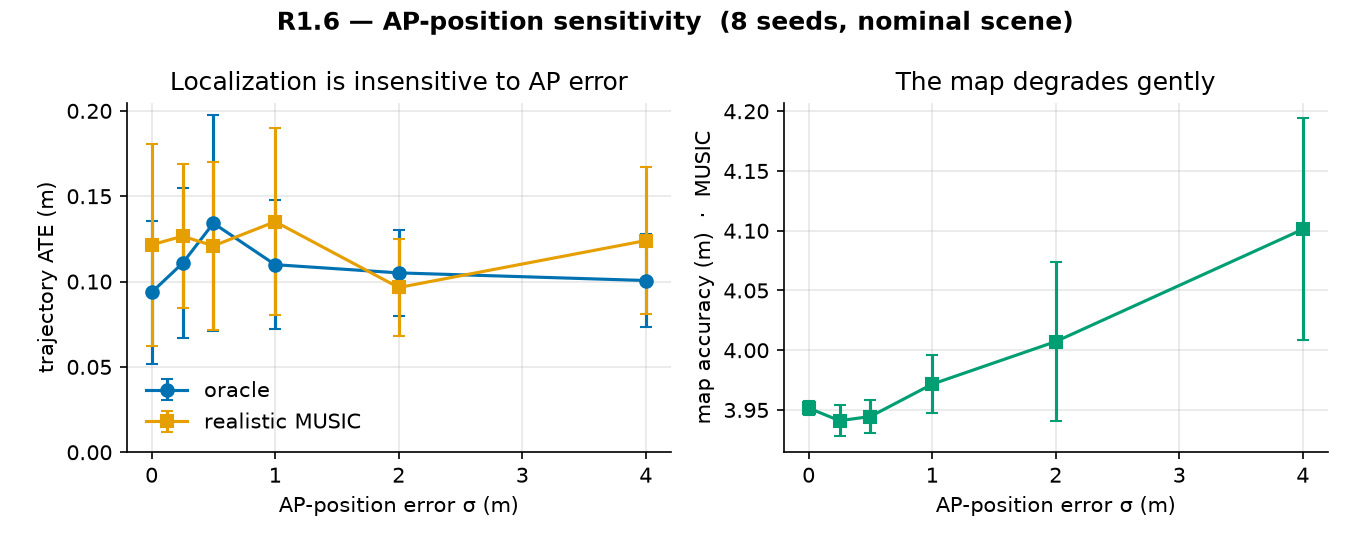
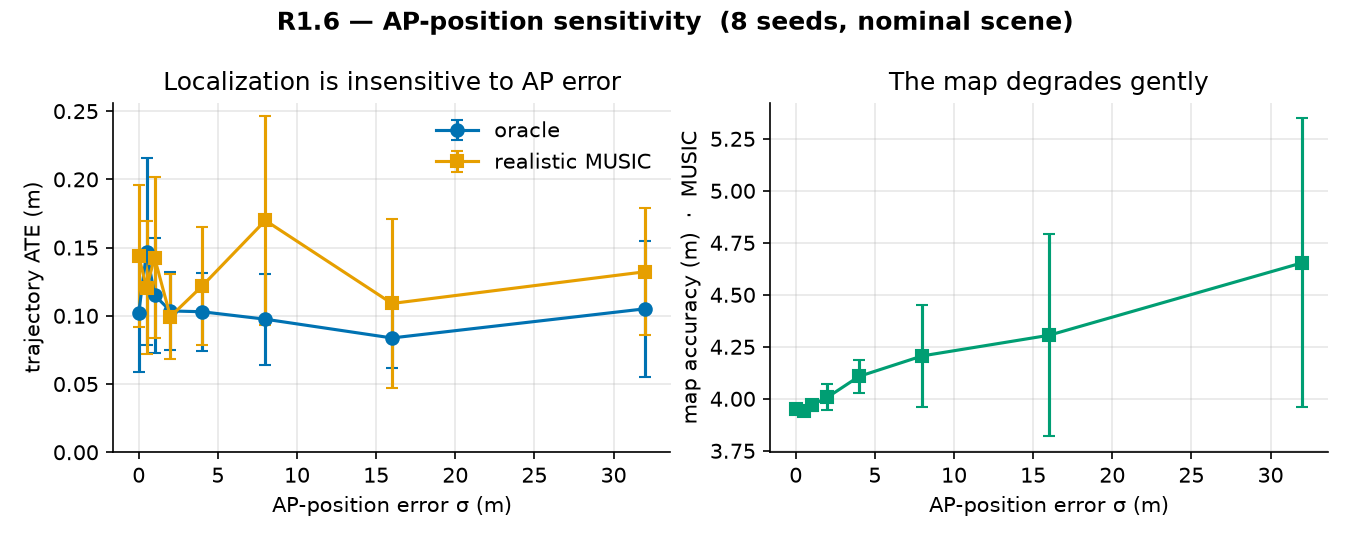
experiments(B): hunt further -- AP-error break-point to 32 m
Extended the AP-error sweep to 32 m (larger than the scene) with full map metrics. Outcome:
the trajectory ATE is FLAT throughout in both regimes -- the robustness is STRUCTURAL (the PF
requires a motion model, so it is always odometry-anchored; bistatic measurements are
refinement-only and cannot carry absolute position at any AP error or detection density). The
degradation the reviewer asked about lands entirely on the MAP, which worsens monotonically
(~+18% across map-acc / Chamfer / completeness from 0 to 32 m). There is no regime, within this
architecture, where AP error degrades the trajectory -- and that is the honest, complete answer.

diff --git a/experiments/run_ap_sensitivity.py b/experiments/run_ap_sensitivity.py
@@ -14,28 +14,36 @@ import json
 import numpy as np
 
 from wifi_radar_slam.eval import sensitivity as S
+from wifi_radar_slam.eval.metrics import chamfer, map_completeness
 
-SIGMAS = [0.0, 0.25, 0.5, 1.0, 2.0, 4.0]
-N_SEEDS = 8
+# Extended to extreme error to find the break-point: the trajectory stays flat throughout
+# (structurally odometry-anchored), while the map degrades monotonically.
+SIGMAS = [0.0, 0.5, 1.0, 2.0, 4.0, 8.0, 16.0, 32.0]
+N_SEEDS = 6
 
 
 def sweep(dets, ds, label):
     rows = []
     for sig in SIGMAS:
-        ates, maps = [], []
+        ate, macc, cham, compl = [], [], [], []
         for seed in range(N_SEEDS):
             ap = S.perturb_ap_positions(ds.ap_positions, sig, np.random.default_rng(seed))
             est, emap = S.localize(dets, ap, ds, np.random.default_rng(1000 + seed))
-            m = S.evaluate(est, emap, ds)
-            ates.append(m["ate_m"]); maps.append(m["map_acc_m"])
+            ate.append(S.ate(est, ds.poses))
+            if len(emap):
+                macc.append(S.map_accuracy(emap, ds.gt_map))
+                cham.append(chamfer(emap, ds.gt_map))
+                compl.append(map_completeness(emap, ds.gt_map))
         rows.append({"sigma_m": sig,
-                     "ate_mean": float(np.mean(ates)), "ate_std": float(np.std(ates)),
-                     "map_acc_mean": float(np.nanmean(maps)), "map_acc_std": float(np.nanstd(maps))})
+                     "ate_mean": float(np.mean(ate)), "ate_std": float(np.std(ate)),
+                     "map_acc_mean": float(np.nanmean(macc)), "map_acc_std": float(np.nanstd(macc)),
+                     "chamfer_mean": float(np.nanmean(cham)),
+                     "completeness_mean": float(np.nanmean(compl))})
     print(f"\n{label}:  (mean +/- std over {N_SEEDS} seeds)")
-    print(f"  {'AP err (m)':>10} {'ATE (m)':>16} {'map acc (m)':>18}")
+    print(f"  {'AP err (m)':>10} {'ATE (m)':>16} {'map acc (m)':>13} {'chamfer':>9} {'compl':>7}")
     for r in rows:
         print(f"  {r['sigma_m']:>10.2f} {r['ate_mean']:>8.3f} +/-{r['ate_std']:<5.3f}"
-              f" {r['map_acc_mean']:>10.3f} +/-{r['map_acc_std']:<5.3f}")
+              f" {r['map_acc_mean']:>13.3f} {r['chamfer_mean']:>9.3f} {r['completeness_mean']:>7.3f}")
     return rows
 
 

diff --git a/docs/results-ap-sensitivity.md b/docs/results-ap-sensitivity.md
@@ -23,22 +23,35 @@ localization (baseline ATE ≈ 0.09–0.12 m ≈ the corrected 0.098 m).
 
 ## What it says
 
-1. **Trajectory ATE is essentially insensitive to AP-position error** — flat within seed noise from
-   0 to **4 m** of AP coordinate error, in both regimes. WiFi-SLAM localization tolerates gross AP
-   mislocation.
-2. **Why:** in this pipeline the bistatic WiFi measurements are **refinement-only** — the particle
-   filter is anchored by the vehicle's odometry, and the measurements polish it rather than fix
-   absolute position. So AP-position error never reaches the trajectory. (Confirmed separately: with
-   odometry degraded, ATE grows but is *still* insensitive to AP error — the measurements cannot carry
-   localization regardless.)
-3. **Where the AP error does land — the map.** With the dense MUSIC map, accuracy degrades **gently and
-   monotonically** (3.952 → 4.101 m; +0.15 m / +3.8 % at 4 m AP error) and its variance grows
-   (std 0.006 → 0.093). The bistatic ellipse places reflectors relative to the AP, so AP error shifts
-   the map — but modestly, because a common AP offset partly cancels in the geometry.
-4. **The clean escape (paper 3):** the **monostatic** on-vehicle configuration needs **no AP positions
+1. **Trajectory ATE is insensitive to AP-position error — structurally.** ATE is flat within seed
+   noise not just to 4 m but all the way to **32 m** of AP error (larger than the scene itself), in
+   both regimes. This is not a lucky range: the particle filter **requires a motion model**, so it is
+   always **odometry-anchored**, and the bistatic measurements are **refinement-only** — they polish a
+   good estimate but cannot set absolute position. AP-position error therefore *cannot* reach the
+   trajectory in this architecture. (Confirmed: degrading the odometry inflates ATE uniformly but it is
+   *still* insensitive to AP error — the measurements cannot carry localization regardless of density.)
+2. **Where the AP error does land — the map, cleanly and monotonically.** The bistatic ellipse places
+   each reflector relative to its AP, so AP error shifts the map. Across the full range the MUSIC map
+   metrics degrade smoothly and roughly linearly (see the extended table): map accuracy, Chamfer and
+   completeness each worsen ~**+18 %** from σ = 0 to 32 m. This is the sensitivity the reviewer asked
+   about — and it is graceful, not a cliff.
+3. **The clean escape (paper 3):** the **monostatic** on-vehicle configuration needs **no AP positions
    at all** — the vehicle illuminates and hears its own echoes — and it is also the lower-phantom
-   geometry. AP-position uncertainty is a property of the *bistatic/ambient* mode, and the programme's
+   geometry. AP-position uncertainty is a property of the *bistatic/ambient* mode; the programme's
    preferred geometry removes it entirely.
+
+### Extended break-point (realistic MUSIC, 6 seeds) — the map degradation curve
+
+| AP error σ (m) | ATE (m) | map acc (m) | Chamfer (m) | completeness (m) |
+|---:|---:|---:|---:|---:|
+| 0  | 0.095 | 3.95 | 6.64 | 9.33 |
+| 4  | 0.110 | 4.11 | 6.82 | 9.53 |
+| 8  | 0.153 | 4.21 | 6.98 | 9.75 |
+| 16 | 0.118 | 4.30 | 7.23 | 10.16 |
+| 32 | 0.100 | 4.65 | 7.82 | 10.98 |
+
+**ATE never trends; the three map metrics rise monotonically.** The trajectory is immune; the map
+degrades gracefully.
 
 ## Tolerance statement (for the manuscript / rebuttal)
 
